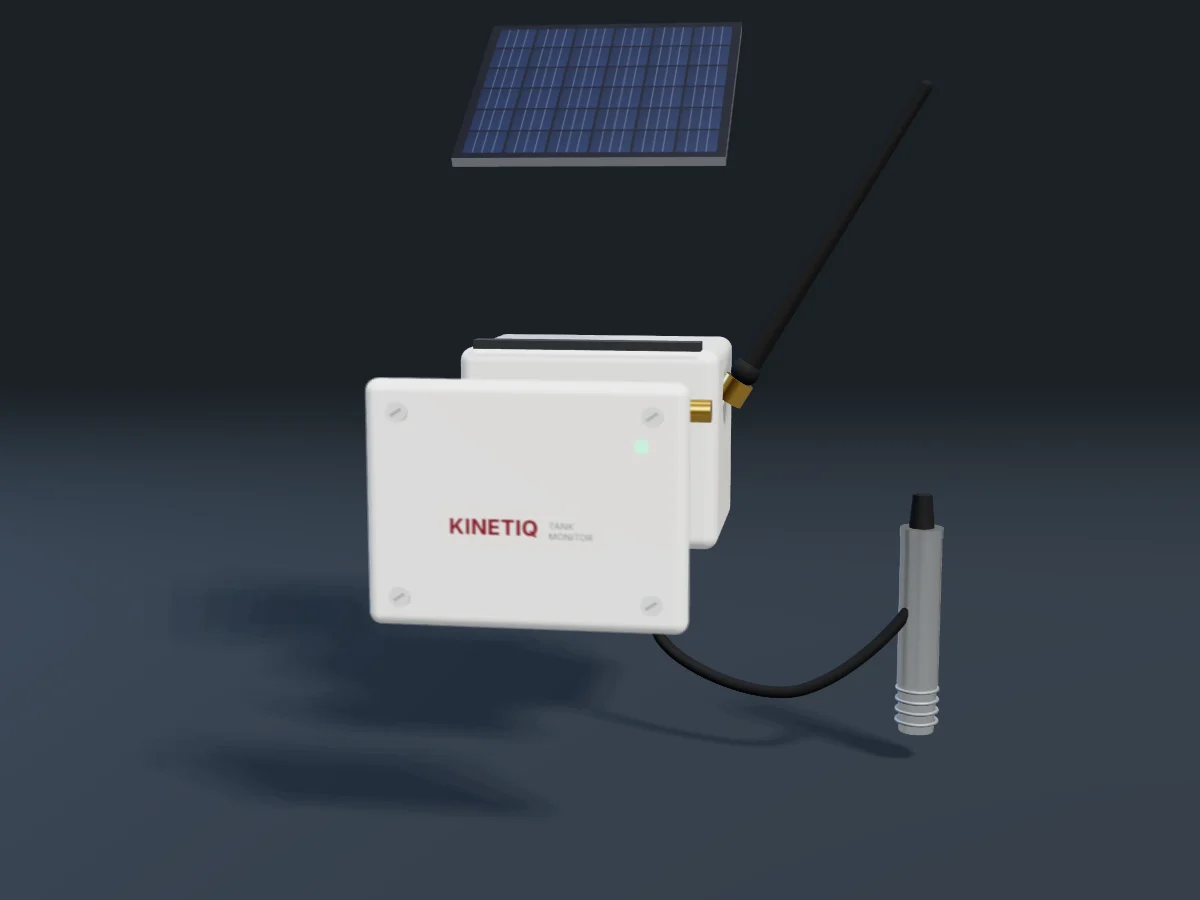
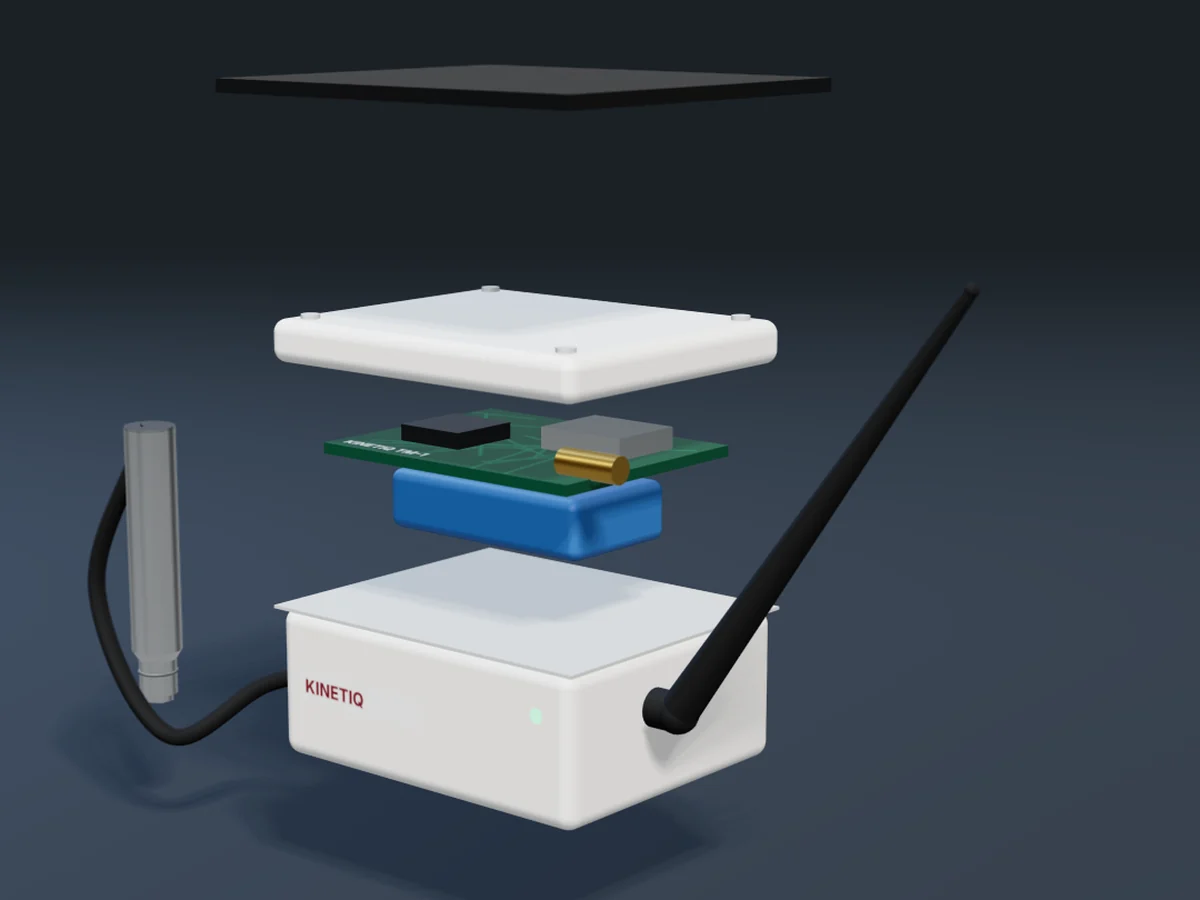
NZ farm imagery and closer-to-prototype tank monitor renders
- Homepage hero: green poly tank in a NZ paddock with fence line, cabbage
  trees and snow-capped ranges; monitor on the lid
- 'Made in Aotearoa New Zealand' band with a close-up of the unit on the
  tank lid; About page uses the farm scene
- Studio, cut-away and exploded renders of the revised unit model (flush
  black solar panel, side antenna, smooth stainless probe)
- Cut-away and installed views now use a rotomoulded poly tank

Claude-Session: https://claude.ai/code/session_01VYdmJyyLHh3p2ArsBJsgFX

diff --git a/index.html b/index.html
@@ -34,7 +34,7 @@
 
   <main id="main">
     <section class="hero on-dark" aria-labelledby="hero-title">
-      <div class="hero-media"><img src="assets/img/renders/hero.webp" alt="Kinetiq tank monitor with solar panel and antenna mounted on the roof of a corrugated steel water tank" width="2400" height="1300" fetchpriority="high" decoding="async"></div>
+      <div class="hero-media"><img src="assets/img/renders/nz-farm.webp" alt="Green poly water tank with a Kinetiq monitor on the lid, in a New Zealand paddock with a fence line, cabbage trees and snow-capped ranges" width="2400" height="1100" fetchpriority="high" decoding="async"></div>
       <div class="wrap">
         <div class="hero-copy">
           <p class="kicker" data-reveal>Mechatronics for New Zealand farms</p>
@@ -105,6 +105,23 @@
       </div>
     </section>
 
+
+    <section class="nz-band on-dark" aria-labelledby="nz-title">
+      <div class="nz-media"><img src="assets/img/renders/tank-top.webp" alt="Kinetiq tank monitor with its black solar panel and antenna on the lid of a green poly water tank, New Zealand farmland behind" width="2400" height="1300" loading="lazy" decoding="async"></div>
+      <div class="wrap">
+        <div class="nz-copy" data-reveal>
+          <p class="kicker">Made in Aotearoa New Zealand</p>
+          <h2 id="nz-title">Designed for Kiwi farms, from Northland to Southland.</h2>
+          <p>Long distances between tanks, patchy mobile coverage, hard frosts and dry summers. We design and test every Kinetiq system for New Zealand conditions, and support it from here.</p>
+          <ul class="nz-points">
+            <li><svg viewBox="0 0 24 24" fill="none" stroke="currentColor" stroke-width="2.2" aria-hidden="true"><circle cx="12" cy="12" r="9"/><path d="m8 12.5 2.6 2.5L16 9.5"/></svg>Designed and built in NZ</li>
+            <li><svg viewBox="0 0 24 24" fill="none" stroke="currentColor" stroke-width="2.2" aria-hidden="true"><circle cx="12" cy="12" r="9"/><path d="m8 12.5 2.6 2.5L16 9.5"/></svg>Works without mobile coverage</li>
+            <li><svg viewBox="0 0 24 24" fill="none" stroke="currentColor" stroke-width="2.2" aria-hidden="true"><circle cx="12" cy="12" r="9"/><path d="m8 12.5 2.6 2.5L16 9.5"/></svg>Local support and spares</li>
+          </ul>
+        </div>
+      </div>
+    </section>
+
     <section class="dark" id="services">
       <div class="wrap">
         <div class="section-head split" data-reveal>
@@ -162,7 +179,7 @@
           <a class="btn btn-ghost" href="projects.html">All projects</a>
         </div>
         <div class="project" data-reveal>
-          <a class="project-media" href="projects/tank-monitor-live.html" aria-label="Open the tank monitor live view"><img src="assets/img/renders/installed.webp" alt="Kinetiq tank monitor installed on a farm tank, cut away to show the probe on the tank floor" width="1600" height="1200" loading="lazy" decoding="async"></a>
+          <a class="project-media" href="projects/tank-monitor-live.html" aria-label="Open the tank monitor live view"><img src="assets/img/renders/installed.webp" alt="Cut-away poly water tank with the Kinetiq monitor on the lid and the pressure probe on the tank floor" width="1600" height="1200" loading="lazy" decoding="async"></a>
           <div class="project-body">
             <span class="badge ready">Completed</span>
             <h3 style="font-size:1.6rem">Tank monitoring &amp; pump control</h3>

diff --git a/projects.html b/projects.html
@@ -52,7 +52,7 @@
         </div>
 
         <article class="project" data-status="completed" data-reveal>
-          <a class="project-media" href="projects/tank-monitor-live.html" aria-label="Open the tank monitor live view"><img src="assets/img/renders/installed.webp" alt="Kinetiq tank monitor installed on a farm tank" width="1600" height="1200" loading="lazy" decoding="async"></a>
+          <a class="project-media" href="projects/tank-monitor-live.html" aria-label="Open the tank monitor live view"><img src="assets/img/renders/installed.webp" alt="Cut-away poly water tank with the Kinetiq monitor on the lid and the pressure probe on the floor" width="1600" height="1200" loading="lazy" decoding="async"></a>
           <div class="project-body">
             <span class="badge ready">Completed</span>
             <h2 style="font-size:1.8rem">Tank monitoring &amp; pump control</h2>

diff --git a/about.html b/about.html
@@ -40,7 +40,7 @@
           <h1 data-reveal style="--d:.08s">Engineers who'd rather fix the problem than sell you a gadget.</h1>
           <p class="lede" data-reveal style="--d:.16s">Kinetiq is a New Zealand engineering company. We design and build practical machines, sensors and control systems for farms, rural properties and the organisations that look after shared water.</p>
         </div>
-        <div class="page-hero-media" data-reveal="zoom"><img src="assets/img/renders/pcb.webp" alt="Close-up of a Kinetiq circuit board" width="1600" height="1000" fetchpriority="high" decoding="async"></div>
+        <div class="page-hero-media" data-reveal="zoom"><img src="assets/img/renders/nz-farm.webp" alt="Green poly water tank with a Kinetiq monitor in a New Zealand paddock" width="2400" height="1100" fetchpriority="high" decoding="async"></div>
       </div>
     </section>
 

diff --git a/services.html b/services.html
@@ -40,7 +40,7 @@
           <h1 data-reveal style="--d:.08s">Mechanical, electrical and software, under one roof.</h1>
           <p class="lede" data-reveal style="--d:.16s">Mechatronics means the moving parts, the electronics and the code are designed together. That's how we work on every job, big or small.</p>
         </div>
-        <div class="page-hero-media" data-reveal="zoom"><img src="assets/img/renders/hero.webp" alt="Kinetiq tank monitor installed on a corrugated water tank" width="2400" height="1300" fetchpriority="high" decoding="async"></div>
+        <div class="page-hero-media" data-reveal="zoom"><img src="assets/img/renders/tank-top.webp" alt="Kinetiq tank monitor on the lid of a poly water tank on a New Zealand farm" width="2400" height="1300" fetchpriority="high" decoding="async"></div>
       </div>
     </section>
 

diff --git a/tools/renders/scenes/unit2.js b/tools/renders/scenes/unit2.js
@@ -12,7 +12,7 @@ export default function () {
   const pts = coilPoints(0.7, 1.15, 1.45, 0.95, 4);
   cable(root, [[gland.x, gland.y, gland.z], [gland.x - 0.25, 0.06, gland.z + 0.3], [-1.0, 0.04, 0.9], ...pts]);
   const end = pts[pts.length - 1];
-  const p = probe2(); p.rotation.x = -Math.PI / 2; p.rotation.y = -0.15; p.position.set(end[0], 0.105, end[2] + 0.02); root.add(p);
+  const p = probe2(); p.rotation.z = -Math.PI / 2; p.rotation.y = 0.35; p.position.set(end[0] - 0.05, 0.105, end[2]); root.add(p);
   contactShadow(root, 6, 4.4, 0.28, [0.2, 0.003, 0.5]);
   contactShadow(root, 2.4, 2.1, 0.45, [-0.4, 0.004, -0.5]);
   S.finish();

diff --git a/assets/css/style.css b/assets/css/style.css
@@ -749,3 +749,5 @@ details.table-view summary { cursor: pointer; font-weight: 600; color: var(--wat
   .nz-media img { object-position: 70% 50%; }
   .nz-media::after { background: linear-gradient(0deg, rgba(20,26,30,0.88) 0%, rgba(20,26,30,0.5) 55%, rgba(20,26,30,0.15) 100%); }
 }
+.hero-media img[src*="nz-farm"] { object-position: 62% 60%; }
+.nz-band .nz-media img { object-position: 62% 55%; }

diff --git a/tools/build_pages.py b/tools/build_pages.py
@@ -300,7 +300,7 @@ def home():
     html += f"""
   <main id="main">
     <section class="hero on-dark" aria-labelledby="hero-title">
-      <div class="hero-media">{img(r, 'hero', 'Kinetiq tank monitor with its black solar panel and antenna on the lid of a green poly water tank, New Zealand farmland behind', eager=True, width=2400, height=1300)}</div>
+      <div class="hero-media">{img(r, 'nz-farm', 'Green poly water tank with a Kinetiq monitor on the lid, in a New Zealand paddock with a fence line, cabbage trees and snow-capped ranges', eager=True, width=2400, height=1100)}</div>
       <div class="wrap">
         <div class="hero-copy">
           <p class="kicker" data-reveal>Mechatronics for New Zealand farms</p>
@@ -370,7 +370,7 @@ def home():
 
 
     <section class="nz-band on-dark" aria-labelledby="nz-title">
-      <div class="nz-media">{img(r, 'nz-farm', 'Kinetiq tank monitor on a green poly water tank in a New Zealand paddock, with a fence line, cabbage trees and snow-capped ranges behind', width=2400, height=1100)}</div>
+      <div class="nz-media">{img(r, 'tank-top', 'Kinetiq tank monitor with its black solar panel and antenna on the lid of a green poly water tank, New Zealand farmland behind', width=2400, height=1300)}</div>
       <div class="wrap">
         <div class="nz-copy" data-reveal>
           <p class="kicker">Made in Aotearoa New Zealand</p>
@@ -545,7 +545,7 @@ def services():
           <h1 data-reveal style="--d:.08s">Mechanical, electrical and software, under one roof.</h1>
           <p class="lede" data-reveal style="--d:.16s">Mechatronics means the moving parts, the electronics and the code are designed together. That's how we work on every job, big or small.</p>
         </div>
-        <div class="page-hero-media" data-reveal="zoom">{img(r, 'hero', 'Kinetiq tank monitor on the lid of a poly water tank on a New Zealand farm', eager=True, width=2400, height=1300)}</div>
+        <div class="page-hero-media" data-reveal="zoom">{img(r, 'tank-top', 'Kinetiq tank monitor on the lid of a poly water tank on a New Zealand farm', eager=True, width=2400, height=1300)}</div>
       </div>
     </section>
 
